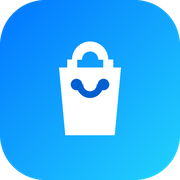
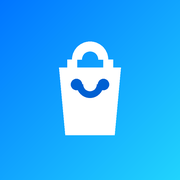
fix(pwa): iOS ana ekran ikonu "C" harfi olarak kaliyordu
IKI AYRI SEBEP
1. Ilk kurulumda /apple-touch-icon.png Cloudflare onbelleginden index.html
   olarak geliyordu. iOS gecerli bir ikon bulamayinca uygulama adinin ilk
   harfinden ("Commerce" → C) kendi ikonunu uretiyor ve bunu ADRESE gore
   KALICI onbellege aliyor — dosya sonradan duzelse bile uygulamayi silip
   yeniden eklemek yetmiyor. Cozum: link'e ?v=2 surum eki (iOS icin de
   Cloudflare icin de yeni bir onbellek anahtari) + sizes="180x180".
2. Ikonlarin kosesi yuvarlak ve saydamdi. iOS ve Android ikona KENDI
   maskesini uygular; saydam koseli PNG'de iOS koseleri siyaha boyar,
   Android'in maskable ikonu kirpilmis gorunur. Ikonlar artik kenardan
   kenara DOLU ve saydamligi olmayan kare — glif zaten guvenli alanin
   icinde (genisligin ~%34'u).

diff --git a/panel/index.html b/panel/index.html
@@ -11,7 +11,11 @@
     <meta name="theme-color" content="#0b1437" />
     <!-- PWA: telefonda "Ana Ekrana Ekle" ile uygulama gibi kurulur -->
     <link rel="manifest" href="/manifest.json" />
-    <link rel="apple-touch-icon" href="/apple-touch-icon.png" />
+    <!-- ?v=2: iOS ana ekran ikonunu ADRESE göre önbelleğe alır ve bir daha
+         sormaz. İlk kurulumda dosya bozuk geldiyse (Cloudflare index.html
+         serviyordu) ikon "C" harfi olarak çakılı kalır; sürüm eki olmadan
+         uygulamayı silip yeniden eklemek bile düzeltmez. -->
+    <link rel="apple-touch-icon" sizes="180x180" href="/apple-touch-icon.png?v=2" />
     <meta name="apple-mobile-web-app-capable" content="yes" />
     <meta name="apple-mobile-web-app-status-bar-style" content="black-translucent" />
     <meta name="apple-mobile-web-app-title" content="Commerce" />

diff --git a/panel/scripts/pwa-ikon.py b/panel/scripts/pwa-ikon.py
@@ -34,16 +34,18 @@ def _gradyan(boy: int) -> Image.Image:
 
 
 def ikon(boy: int) -> Image.Image:
+    """Kenardan kenara DOLU, saydamlığı OLMAYAN kare ikon.
+
+    Köşeleri bilerek yuvarlatmıyoruz: iOS ve Android ikona KENDİ maskesini
+    uygular. Saydam köşeli bir PNG verildiğinde iOS köşeleri siyaha boyar,
+    Android'in maskable ikonu ise kırpılmış görünür. Doğrusu tam kare vermek;
+    glif zaten güvenli alanın içinde (genişliğin ~%34'ü) kalıyor.
+    """
     # 4x çiz, sonra küçült — kenarlar yumuşasın (Pillow'da anti-aliasing yok)
     S = boy * 4
     k = S / 32.0                                  # favicon.svg viewBox ölçeği
 
-    zemin = _gradyan(S).convert("RGBA")
-    maske = Image.new("L", (S, S), 0)
-    ImageDraw.Draw(maske).rounded_rectangle([0, 0, S - 1, S - 1], radius=int(8 * k), fill=255)
-    im = Image.new("RGBA", (S, S), (0, 0, 0, 0))
-    im.paste(zemin, (0, 0), maske)
-
+    im = _gradyan(S).convert("RGBA")
     d = ImageDraw.Draw(im)
     beyaz = (255, 255, 255, 245)
 
@@ -65,7 +67,8 @@ def ikon(boy: int) -> Image.Image:
     d.arc([(16 - 2.4) * k, (15 - 2.4) * k, (16 + 2.4) * k, (15 + 2.4) * k],
           start=0, end=180, fill=KOYU, width=max(1, int(1.2 * k)))
 
-    return im.resize((boy, boy), Image.LANCZOS)
+    # Saydamlık kalmasın (iOS siyah köşe basar)
+    return im.convert("RGB").resize((boy, boy), Image.LANCZOS)
 
 
 if __name__ == "__main__":
